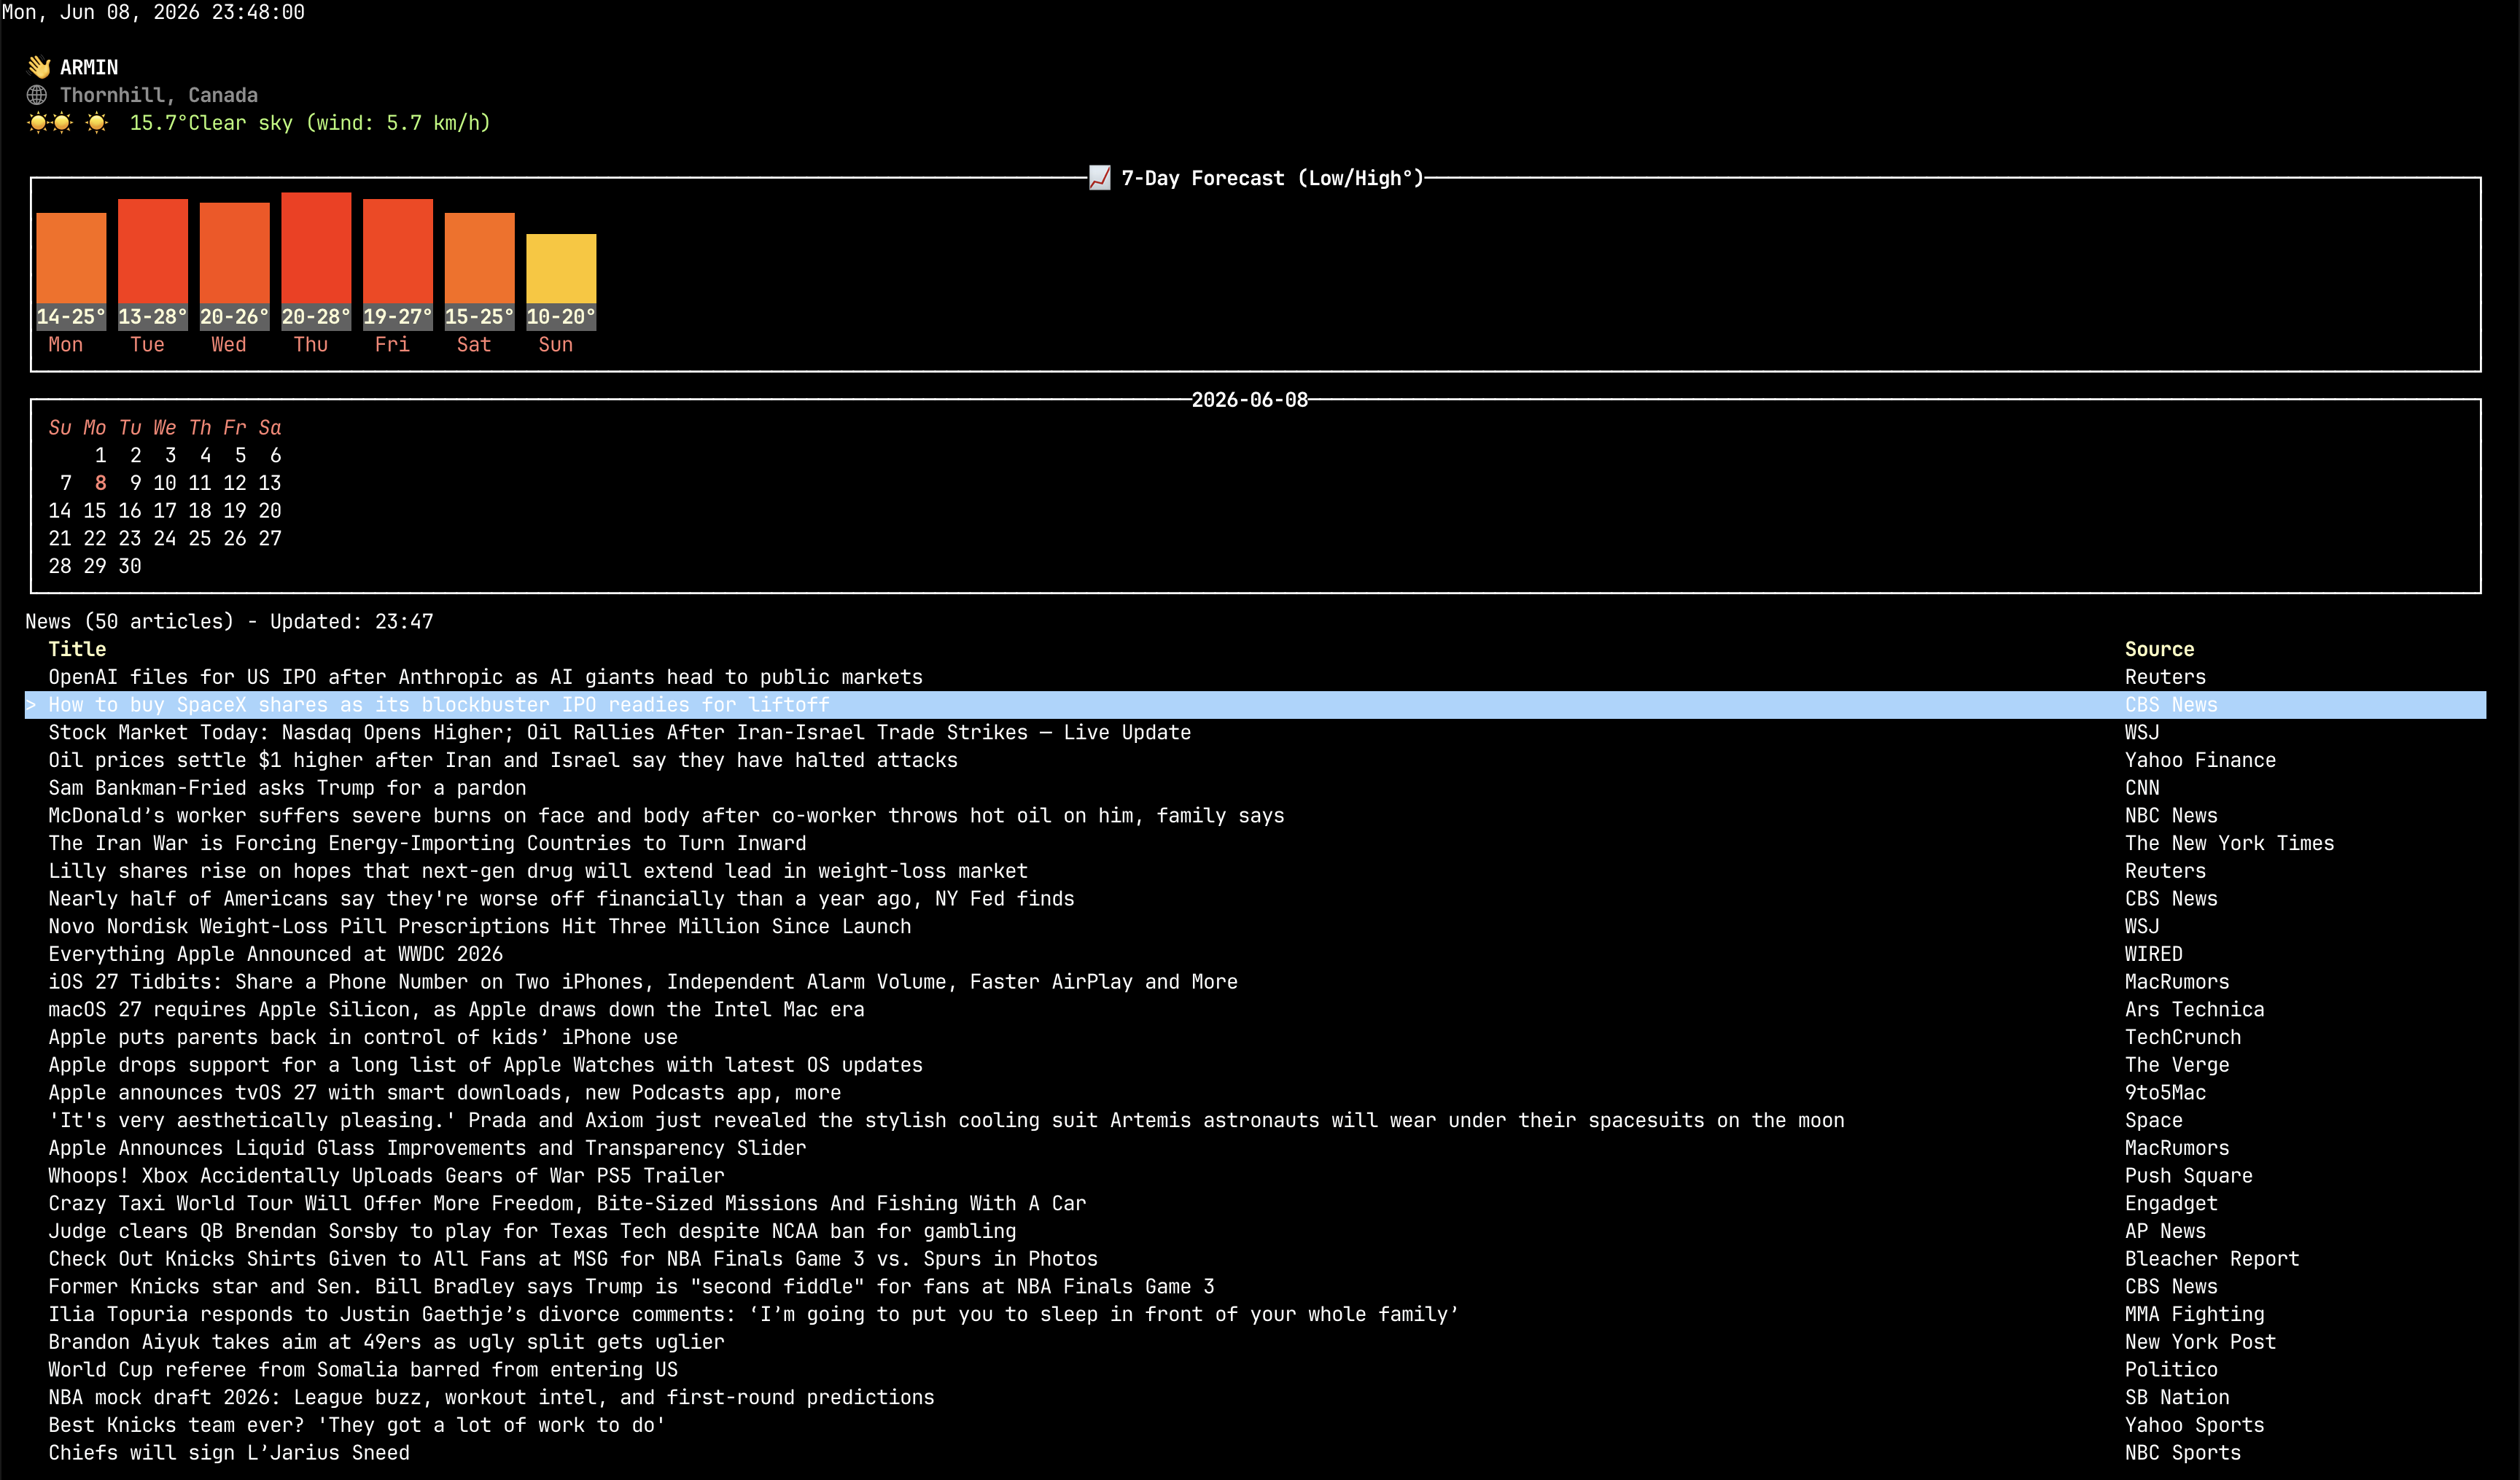
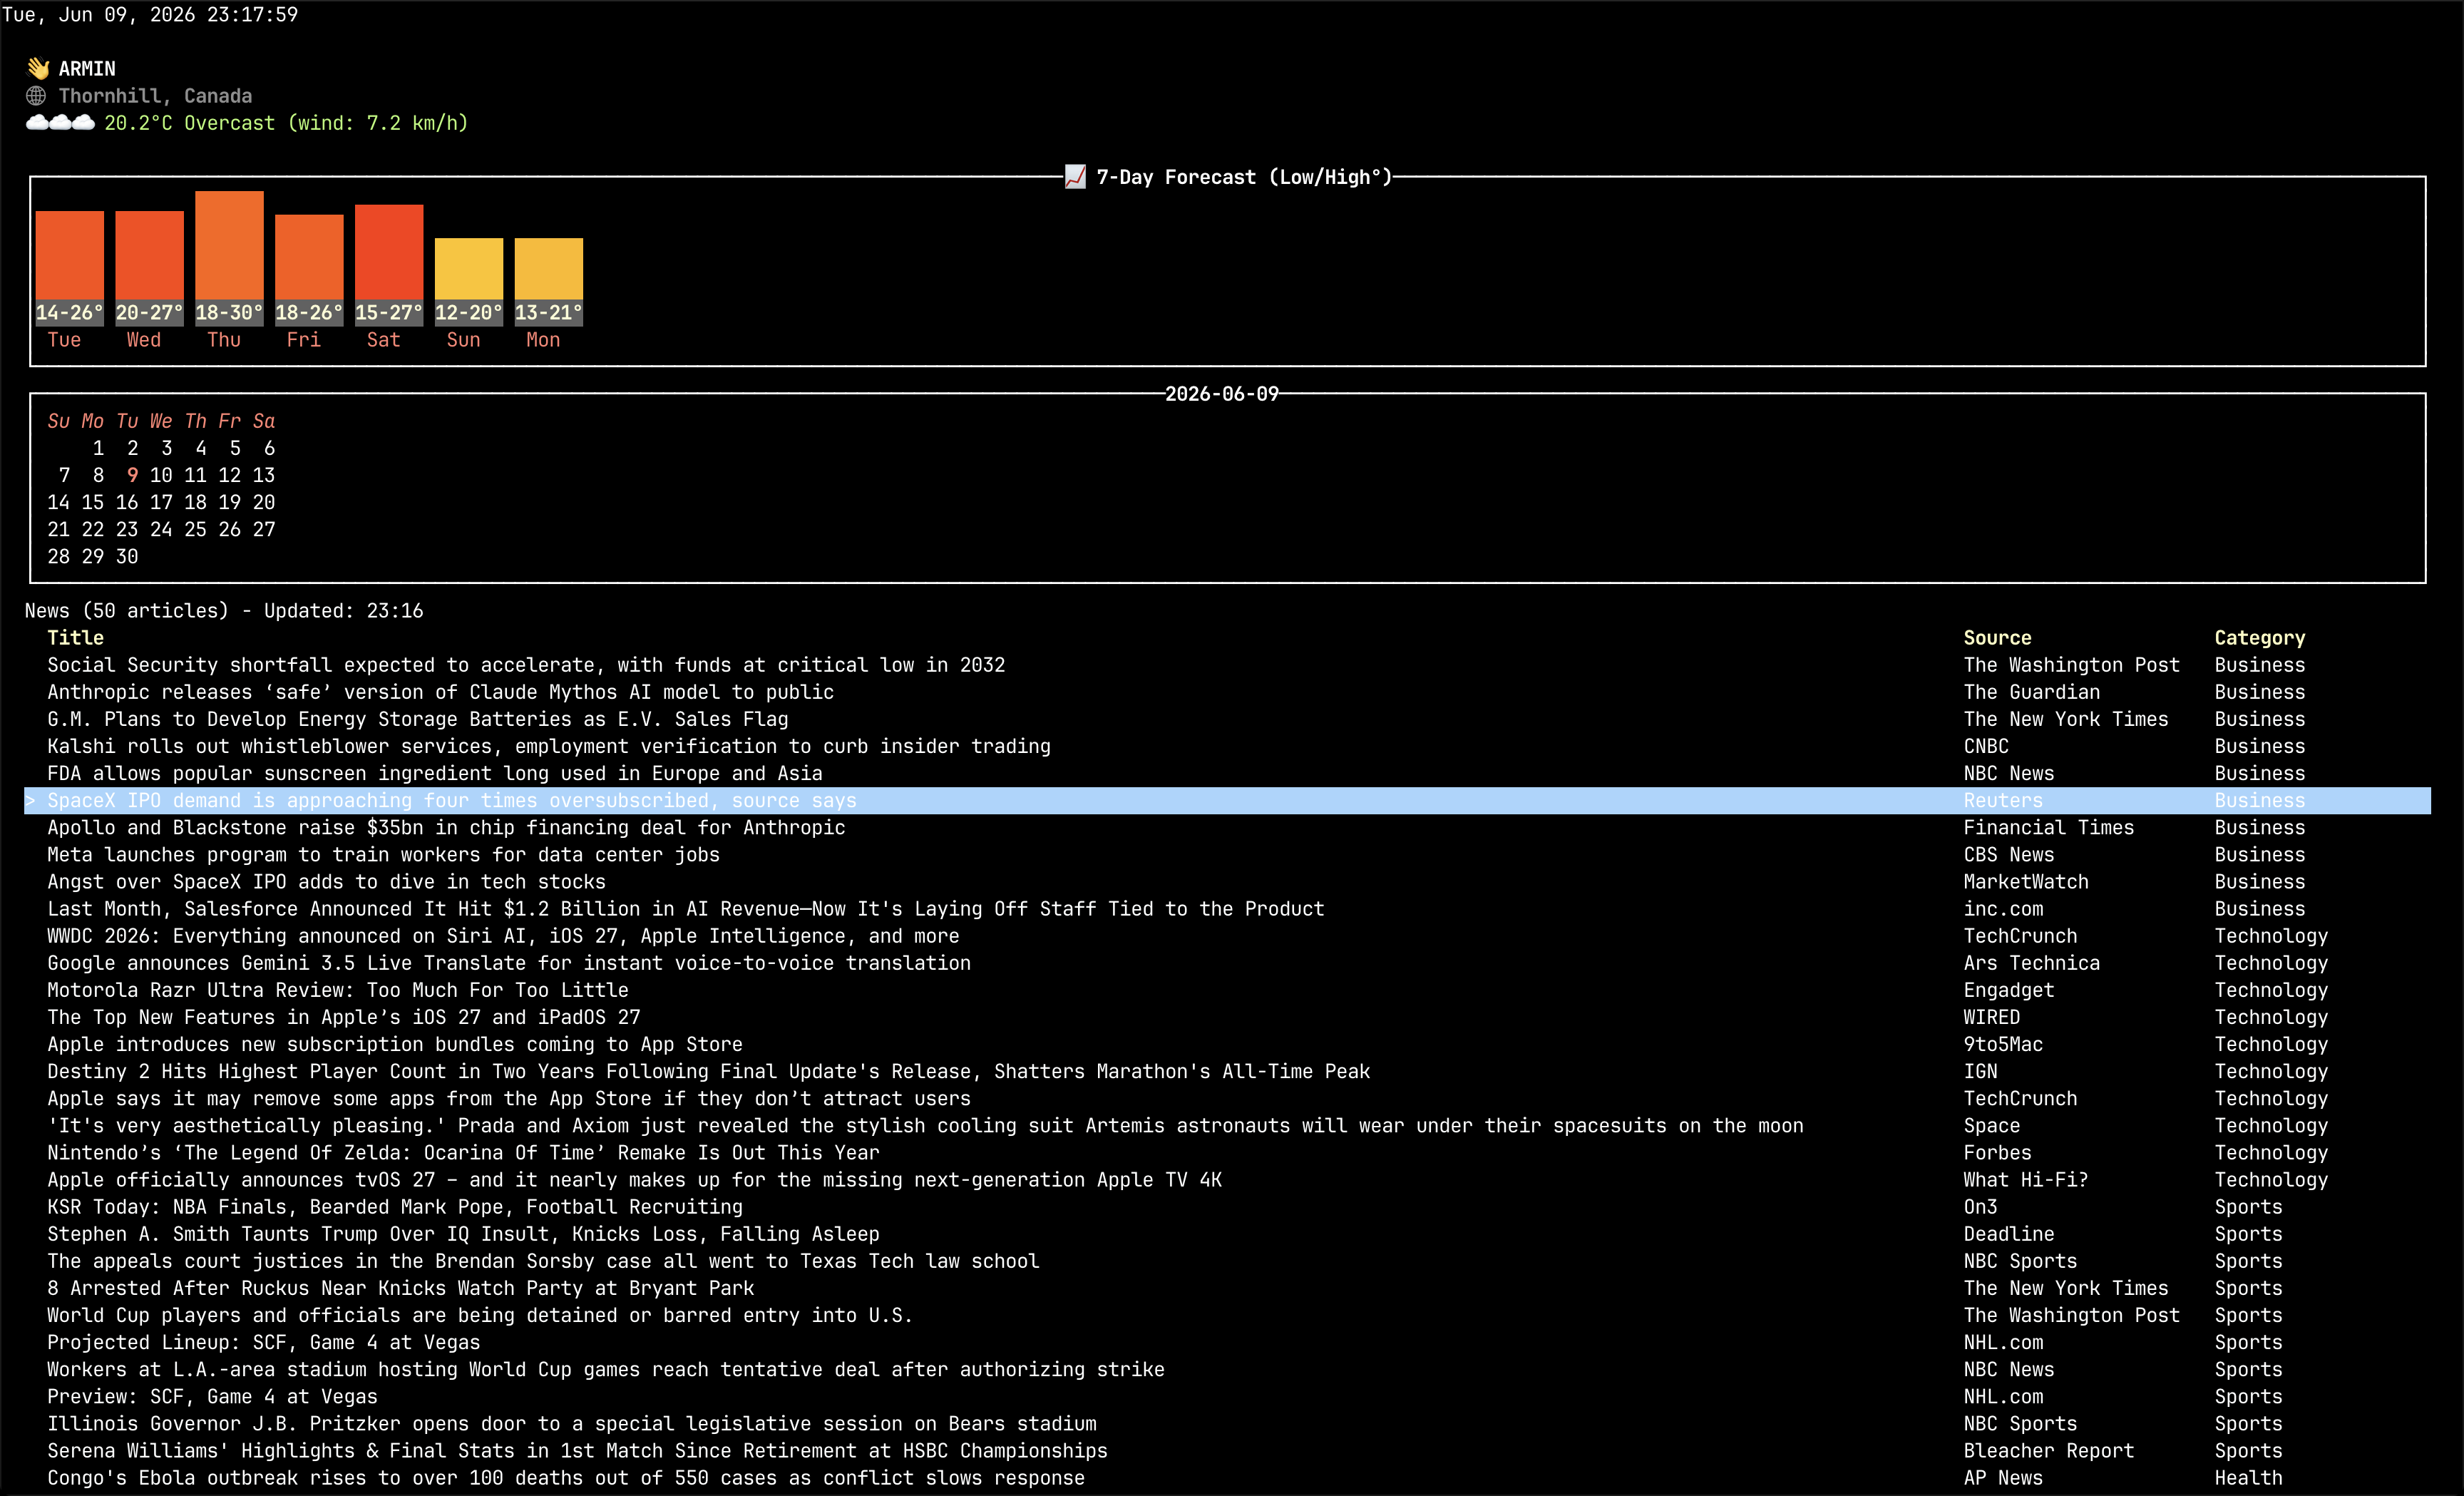
refactor: Enhance News component with category support and layout adjustments
- Added a `category` field to the `NewsArticle` struct for improved article categorization.
- Updated article filtering logic to utilize a constant for maximum articles per category.
- Adjusted the layout of the News component to include a new column for article categories.
- Refined table constraints for better visual representation of articles.

diff --git a/src/components/news.rs b/src/components/news.rs
@@ -10,15 +10,17 @@ use ratatui::widgets::TableState;
 use std::sync::{Arc, RwLock};
 use tracing::{error, info};
 
+const NEW_API_URL: &str = "https://ok.surf/api/v1/cors/news-feed";
+const MAX_NUMBER_OF_ARTICLES_FROM_EACH_CATEGORY: usize = 10;
 const MAX_NUMBER_OF_ARTICLES: usize = 50;
 const FETCH_INTERVAL_MINS: i64 = 30;
-const NEW_API_URL: &str = "https://ok.surf/api/v1/cors/news-feed";
 
 #[derive(Clone, Debug)]
 pub struct NewsArticle {
     pub title: String,
     pub link: String,
     pub source: String,
+    pub category: String,
 }
 
 #[derive(Clone, Debug, Default)]
@@ -102,7 +104,7 @@ impl News {
             {
                 let category_articles: Vec<NewsArticle> = array
                     .iter()
-                    .take(10) // Take up to 10 from each category
+                    .take(MAX_NUMBER_OF_ARTICLES_FROM_EACH_CATEGORY)
                     .filter_map(|article| {
                         let article_object = article.as_object()?;
                         Some(NewsArticle {
@@ -121,6 +123,7 @@ impl News {
                                 .as_str()?
                                 .trim_matches('"')
                                 .to_string(),
+                            category: category.to_string(),
                         })
                     })
                     .collect();
@@ -279,6 +282,10 @@ impl Component for News {
                         "Source",
                         Style::default().add_modifier(Modifier::BOLD),
                     )),
+                    Cell::from(Span::styled(
+                        "Category",
+                        Style::default().add_modifier(Modifier::BOLD),
+                    )),
                 ])
                 .style(Style::default().fg(Color::Yellow))
                 .height(1);
@@ -290,6 +297,7 @@ impl Component for News {
                         Row::new(vec![
                             Cell::from(article.title.clone()),
                             Cell::from(article.source.clone()),
+                            Cell::from(article.category.clone()),
                         ])
                         .height(1)
                     })
@@ -305,8 +313,9 @@ impl Component for News {
                 let table = Table::new(
                     rows,
                     [
-                        ratatui::layout::Constraint::Percentage(85),
-                        ratatui::layout::Constraint::Percentage(15),
+                        ratatui::layout::Constraint::Percentage(80),
+                        ratatui::layout::Constraint::Percentage(10),
+                        ratatui::layout::Constraint::Percentage(5),
                     ],
                 )
                 .header(header)

diff --git a/src/components/weather.rs b/src/components/weather.rs
@@ -1,4 +1,5 @@
 use super::Component;
+use super::greeting::GreetingState;
 use crate::action::Action;
 use crate::app::LoadingStatus;
 use chrono::{Datelike, Local, NaiveDate};
@@ -25,13 +26,13 @@ pub struct WeatherState {
 #[derive(Clone, Debug)]
 pub struct Weather {
     state: Arc<RwLock<WeatherState>>,
-    greeting_state: Arc<RwLock<super::greeting::GreetingState>>,
+    greeting_state: Arc<RwLock<GreetingState>>,
 }
 
 const REFETCH_WEATHER_IN_MINS: i64 = 10;
 
 impl Weather {
-    pub fn new(greeting_state: Arc<RwLock<super::greeting::GreetingState>>) -> Self {
+    pub fn new(greeting_state: Arc<RwLock<GreetingState>>) -> Self {
         Self {
             state: Arc::new(RwLock::new(WeatherState::default())),
             greeting_state,